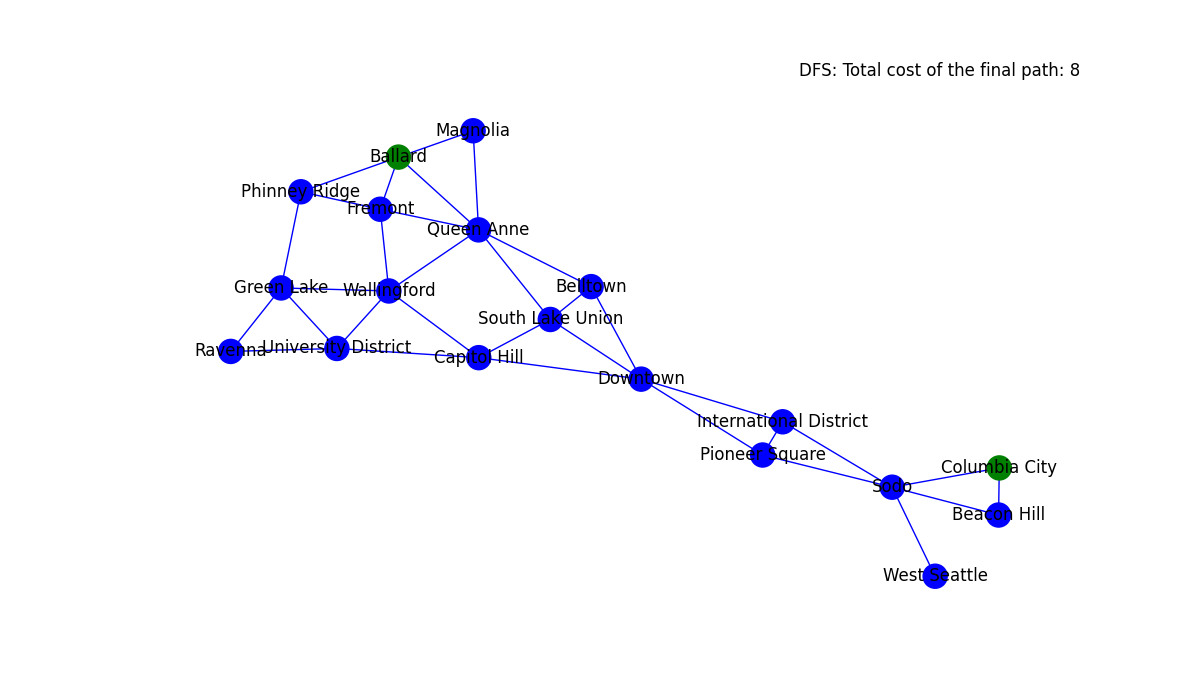
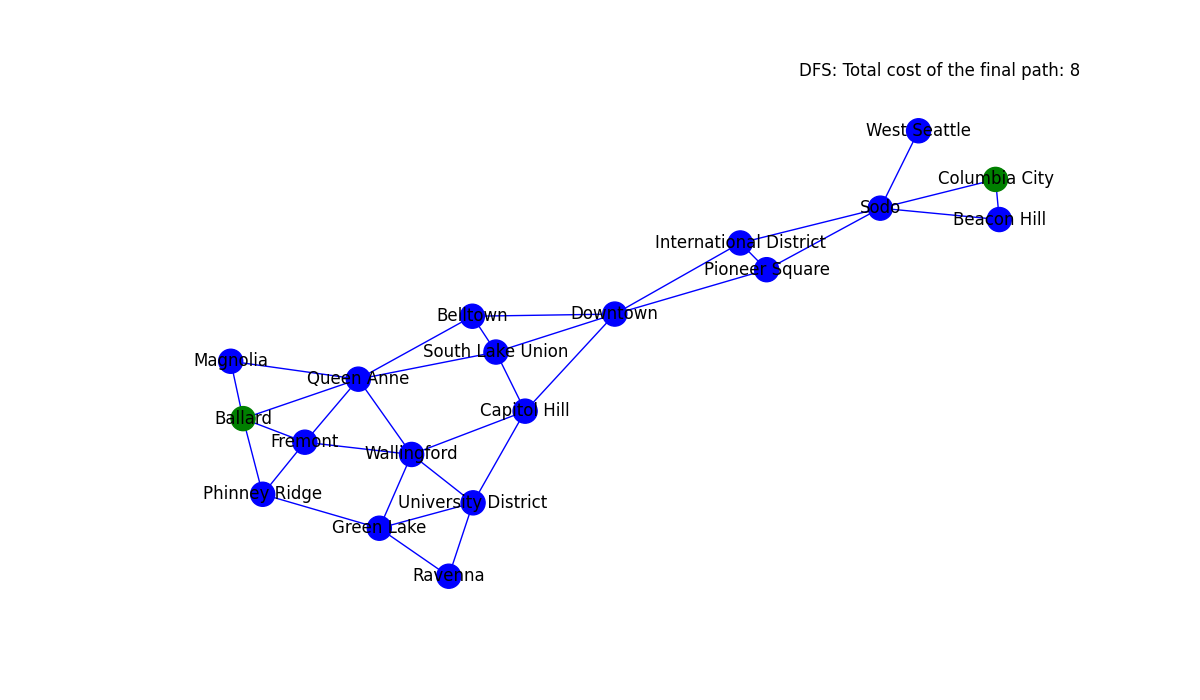
dfs pic

diff --git a/README.md b/README.md
@@ -102,6 +102,8 @@ If you would rather generate images using pygame instead of NetworkX, you can. V
 
 The images that you generate need to show all of the edges that were expanded as part of the search (except for A* since the built-in only gives the final path), but also clearly identify the final path generated by the search algorith. Below each section, add three clearly labeled images showing the results of the prompted routes. Inside of each image plot, add a footnote (or figure text or title or something similar) that shows the final cost of the path found.
 
+![Alt text](DFS.png)
+
 ### Connect Ballard to Columbia City
 
 Add you images here
